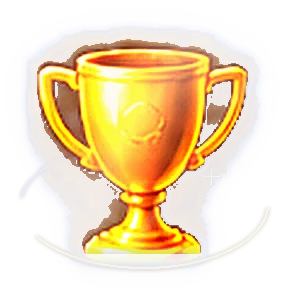
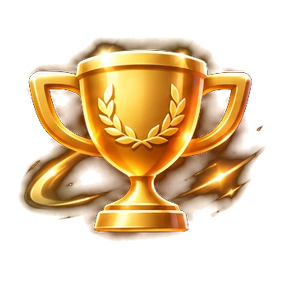
art(wave3): install user-approved 3D screenshot cutouts across Wallet, Missions and Trophies [full-regression]

diff --git a/tests/wave3-user-artwork.test.js b/tests/wave3-user-artwork.test.js
@@ -1,0 +1,55 @@
+import test from 'node:test';
+import assert from 'node:assert/strict';
+import { createHash } from 'node:crypto';
+import { readFileSync } from 'node:fs';
+
+const hashes = Object.freeze({
[10 lines of base64/hex data omitted]
+});
+
+test('the exact ten original 3D screenshot cutouts are committed, not placeholder illustrations', () => {
+  assert.equal(Object.keys(hashes).length, 10);
+  for (const [id, expectedHash] of Object.entries(hashes)) {
+    const dir = id.startsWith('wallet-') ? 'wave3-demo' : 'garage-rewards-and-missions';
+    const path = new URL(`../public/feature-assets/${dir}/raster/${id}@3x.webp`, import.meta.url);
+    const file = readFileSync(path);
+    assert.equal(file.toString('ascii', 0, 4), 'RIFF', id);
+    assert.equal(file.toString('ascii', 8, 12), 'WEBP', id);
+    assert.equal(file.toString('ascii', 12, 16), 'VP8X', id);
+    const size = id.startsWith('wallet-') ? 144 : 288;
+    assert.equal(file.readUIntLE(24, 3) + 1, size, id + ' width');
+    assert.equal(file.readUIntLE(27, 3) + 1, size, id + ' height');
+    assert.ok(file[20] & 0x10, id + ' must have transparency');
+    assert.equal(createHash('sha256').update(file).digest('hex'), expectedHash,
+      id + ' must be the transparent image cut from the approved uploaded 3D reference sheet');
+  }
+});
+
+test('wallet, mission and trophies use their screenshot originals in actual Garage UI', () => {
+  const read = name => readFileSync(new URL('../src/' + name, import.meta.url), 'utf8');
+  const wallet = read('Wave3CurrencyStrip.vue');
+  const board = read('GarageMissionBoard.vue');
+  const garage = read('GaragePanel.vue');
+  const gallery = read('GarageSourceArtGallery.vue');
+  const catalog = read('garage-wave3-preview-catalog.ts');
+  for (const id of Object.keys(hashes)) {
+    if (id.startsWith('wallet-')) assert.match(wallet, new RegExp(id + '@3x\\.webp'), id);
+    else {
+      assert.match(catalog, new RegExp(id), id + ' in Garage catalog');
+      assert.match(board + gallery, /garage-rewards-and-missions\/raster/, id + ' dynamic source');
+    }
+  }
+  assert.match(garage, /<Wave3CurrencyStrip/);
+  assert.match(garage, /<GarageMissionBoard/);
+  assert.match(garage, /category="garage-rewards-and-missions"/);
+  assert.match(board, /:src="asset\(item.id\)"/);
+});

diff --git a/docs/designs/wave3-screenshot-artwork.md b/docs/designs/wave3-screenshot-artwork.md
@@ -1,0 +1,43 @@
+# Wave 3 screenshot-derived 3D artwork (approved original)
+
+The **user-supplied 1536×1024 image sheet**, not the earlier generated placeholder
+graphics, is the source of truth for the ten 3D illustrations committed below.
+
+## The ten cutouts
+
+| Row in user image | Filename prefix | Runtime surface |
+| --- | --- | --- |
+| top left | `wallet-coin` | Garage Wallet coins |
+| top second | `wallet-diamond` | Garage Wallet diamonds |
+| middle left to right | `mission-race`, `mission-time`, `mission-drift`, `mission-combo` | Garage Missions / art gallery |
+| bottom left to right | `trophy-bronze`, `trophy-silver`, `trophy-gold`, `trophy-platinum` | Garage achievements, rewards / art gallery |
+
+All assets are **independent 3× WebP files with real alpha**. Wallet chips are
+144×144 and all mission/trophy chips are 288×288. The original transparent glow
+and 3D subject shapes are cut directly from the approved 10-icon sheet.
+
+A black matte was removed programmatically using luminance-based unmatting
+and alpha thresholding, with an inner halo preserved. The artwork was *not*
+redrawn or replaced by generic symbolic icons.
+
+## Runtime routing
+
+The source URLs in `Wave3CurrencyStrip.vue`, `GarageMissionBoard.vue`,
+`GarageSourceArtGallery.vue`, and `finish-placement-badge.ts` already route
+to the ten exact WebP paths; replacing those binary blobs is what actually
+updates the screens. `demo-points@3x.webp` remains unchanged.
+
+## Avoid accidental image regressions
+
+`tests/wave3-user-artwork.test.js` pins SHA-256 of **all 10** original
+screenshot-derived sprites, validates transparent WebP canvas dimensions,
+and verifies mounted UI source paths. It fails if a prior fake image, sprite,
+PNG, or arbitrary re-render replaces any approved file.
+
+The old `scripts/generate-wave3-premium-webp.py` is **legacy-only** and must
+not run automatically: it constructs different art from archived symbols.
+The dedicated GitHub workflow was converted to read-only verification instead
+of silently regenerating or overwriting these approved image files.
+
+The source sheet has been saved as a Canva image named
+**Skyline Rush — original AAA 3D 10-icon sheet**.
